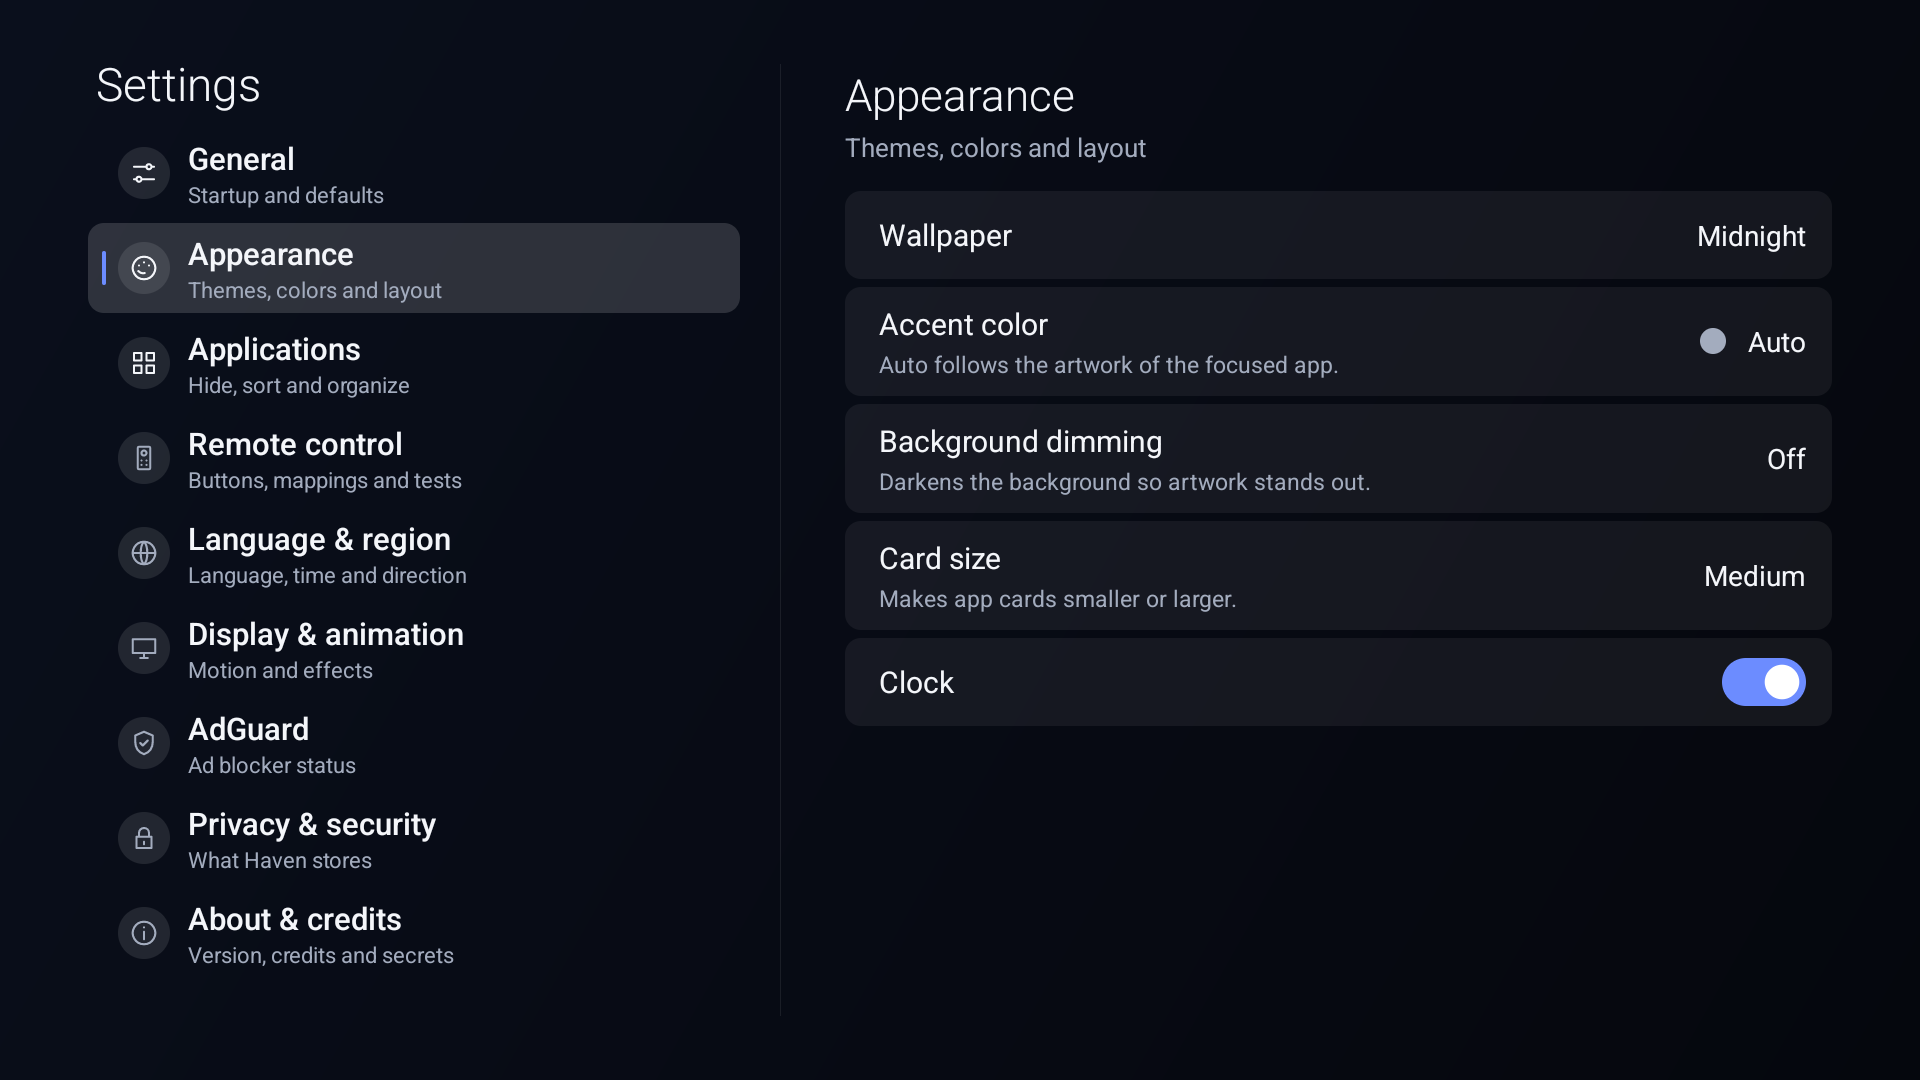
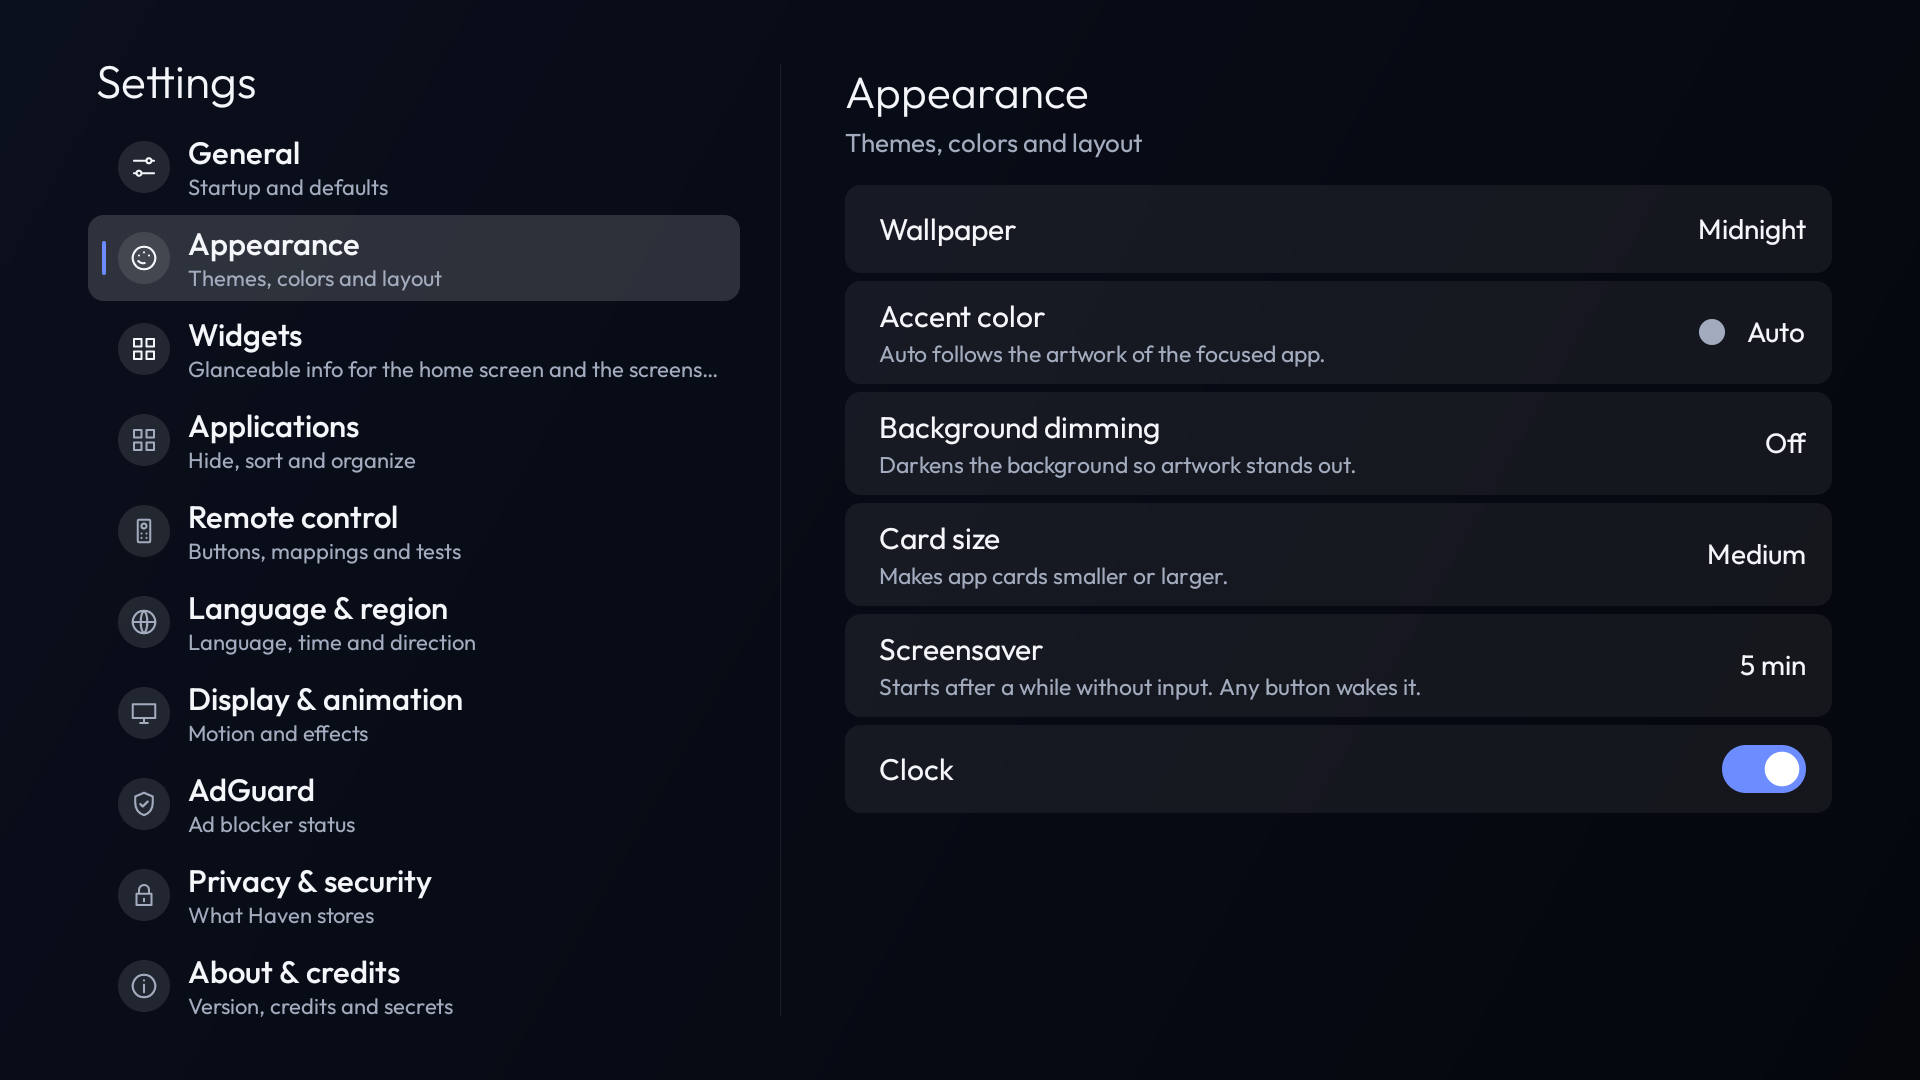
Update screenshots for the Stage & Rail design

diff --git a/README.md b/README.md
@@ -30,6 +30,8 @@ All screenshots were captured on the TV itself.
 
 | | |
 |---|---|
+| ![Scope](docs/images/screenshots/scope.png) | ![Widgets](docs/images/screenshots/widgets.png) |
+| Scope header with a moving light sweep | Widgets: choose what shows where |
 | ![Settings](docs/images/screenshots/settings.png) | ![Applications](docs/images/screenshots/applications.png) |
 | Settings: categories, Appearance open | Applications: manage, hide, sort, shortcuts |
 | ![Remote control](docs/images/screenshots/remote-control.png) | ![Languages](docs/images/screenshots/language.png) |
@@ -128,7 +130,7 @@ docs/               guides and images
 - With an LG remote over HDMI-CEC, only arrows, OK and Back reach the box. There is no remote shortcut that works while another app is in front.
 - There is no floating Home button. An overlay can't be reached with a D-pad without taking input away from the app underneath.
 - Strings added in the latest redesign (screensaver, widgets, greetings) exist in English only and appear in English in the other 49 languages.
-- The screenshots above were taken before the Stage & Rail redesign and need retaking.
+- Home, scope, widgets and settings screenshots show the current design. The other screenshots were taken before the redesign and need retaking.
 - Translations are machine-assisted drafts. None have been checked by a native speaker.
 - Custom wallpapers from files, custom categories and settings export are not implemented.
 
